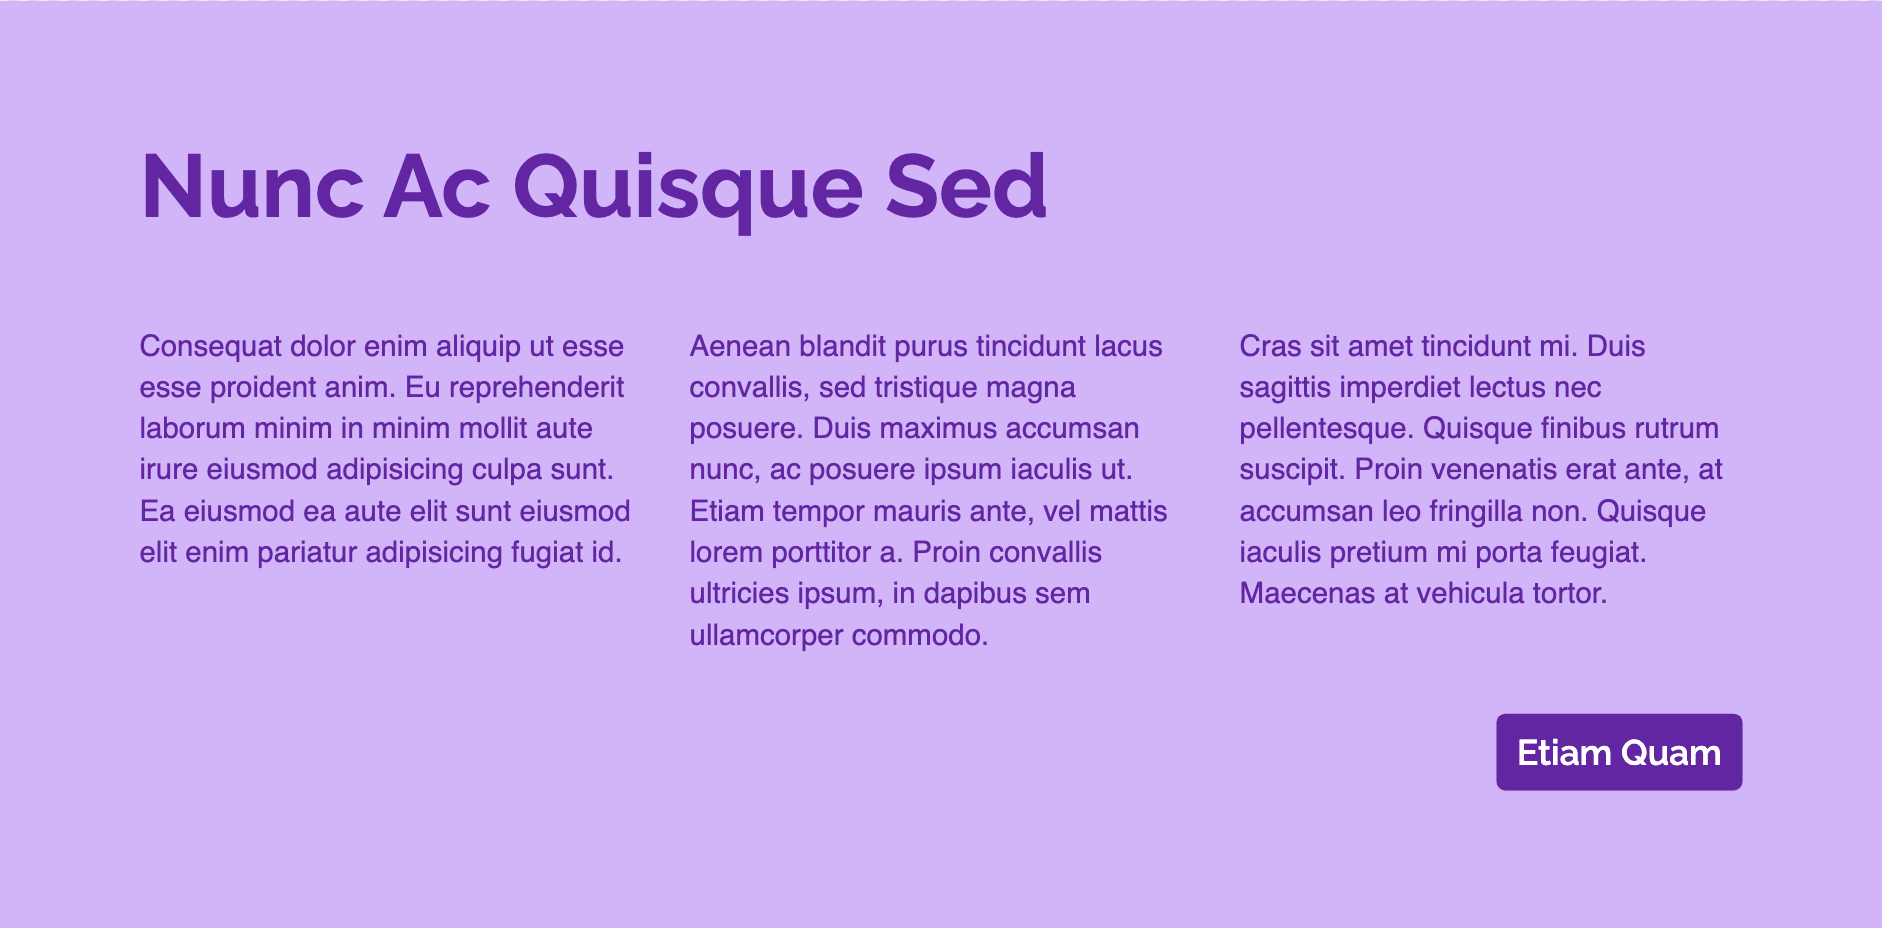
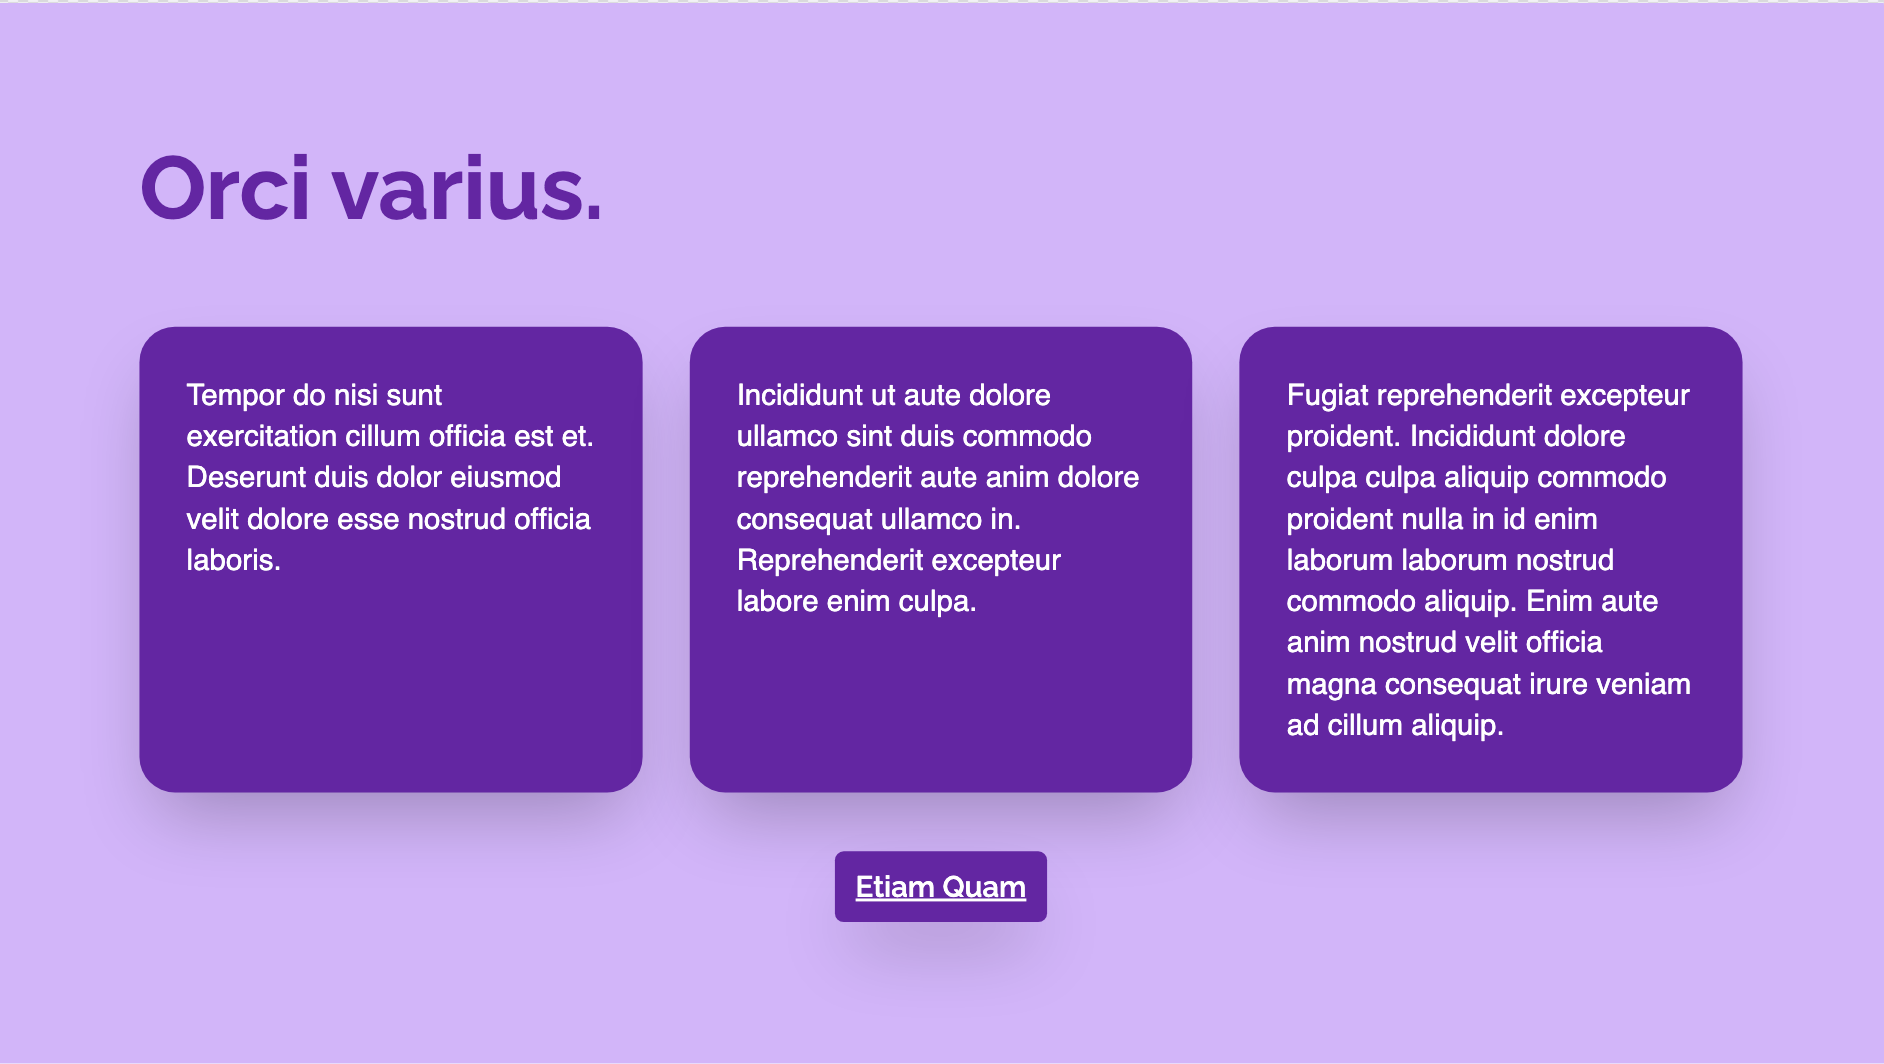
simplified text grid with text box slice, updated screenshots of text block slice variations, created global nav fields on single

diff --git a/prismicio-types.d.ts b/prismicio-types.d.ts
@@ -83,7 +83,70 @@ export type HomepageDocument<Lang extends string = string> =
     Lang
   >;
 
-interface NavigationMenuDocumentData {}
+/**
+ * Item in *Navigation Menu → Menu Items*
+ */
+export interface NavigationMenuDocumentDataMenuItemsItem {
+  /**
+   * Link field in *Navigation Menu → Menu Items*
+   *
+   * - **Field Type**: Link
+   * - **Placeholder**: Enter menu link
+   * - **API ID Path**: navigation_menu.menu_items[].link
+   * - **Documentation**: https://prismic.io/docs/field#link-content-relationship
+   */
+  link: prismic.LinkField;
+
+  /**
+   * Label field in *Navigation Menu → Menu Items*
+   *
+   * - **Field Type**: Text
+   * - **Placeholder**: Enter the label for the menu link
+   * - **API ID Path**: navigation_menu.menu_items[].label
+   * - **Documentation**: https://prismic.io/docs/field#key-text
+   */
+  label: prismic.KeyTextField;
+}
+
+/**
+ * Content for Navigation Menu documents
+ */
+interface NavigationMenuDocumentData {
+  /**
+   * Company Name field in *Navigation Menu*
+   *
+   * - **Field Type**: Text
+   * - **Placeholder**: Enter the company's name
+   * - **API ID Path**: navigation_menu.company_name
+   * - **Tab**: Main
+   * - **Documentation**: https://prismic.io/docs/field#key-text
+   */
+  company_name: prismic.KeyTextField;
+
+  /**
+   * Company Logo field in *Navigation Menu*
+   *
+   * - **Field Type**: Image
+   * - **Placeholder**: *None*
+   * - **API ID Path**: navigation_menu.company_logo
+   * - **Tab**: Main
+   * - **Documentation**: https://prismic.io/docs/field#image
+   */
+  company_logo: prismic.ImageField<never>;
+
+  /**
+   * Menu Items field in *Navigation Menu*
+   *
+   * - **Field Type**: Group
+   * - **Placeholder**: *None*
+   * - **API ID Path**: navigation_menu.menu_items[]
+   * - **Tab**: Main
+   * - **Documentation**: https://prismic.io/docs/field#group
+   */
+  menu_items: prismic.GroupField<
+    Simplify<NavigationMenuDocumentDataMenuItemsItem>
+  >;
+}
 
 /**
  * Navigation Menu document from Prismic
@@ -526,7 +589,7 @@ export type TextBlockSliceDefault = prismic.SharedSliceVariation<
 /**
  * Primary content in *TextBlock → Primary*
  */
-export interface TextBlockSliceTextGridWithHeadingPrimary {
+export interface TextBlockSliceTextGridPrimary {
   /**
    * Add Space Above field in *TextBlock → Primary*
    *
@@ -575,20 +638,20 @@ export interface TextBlockSliceTextGridWithHeadingPrimary {
   text_align: prismic.SelectField<"Center" | "Left" | "Right", "filled">;
 
   /**
-   * Heading Text field in *TextBlock → Primary*
+   * Text field in *TextBlock → Primary*
    *
    * - **Field Type**: Rich Text
-   * - **Placeholder**: Enter heading
-   * - **API ID Path**: text_block.primary.heading_text
+   * - **Placeholder**: Enter text
+   * - **API ID Path**: text_block.primary.text
    * - **Documentation**: https://prismic.io/docs/field#rich-text-title
    */
-  heading_text: prismic.RichTextField;
+  text: prismic.RichTextField;
 }
 
 /**
  * Primary content in *TextBlock → Items*
  */
-export interface TextBlockSliceTextGridWithHeadingItem {
+export interface TextBlockSliceTextGridItem {
   /**
    * Grid Item Text Align field in *TextBlock → Items*
    *
@@ -615,16 +678,16 @@ export interface TextBlockSliceTextGridWithHeadingItem {
 }
 
 /**
- * Text Grid with Heading variation for TextBlock Slice
+ * Text Grid variation for TextBlock Slice
  *
- * - **API ID**: `textGridWithHeading`
+ * - **API ID**: `textGrid`
  * - **Description**: Default
  * - **Documentation**: https://prismic.io/docs/slice
  */
-export type TextBlockSliceTextGridWithHeading = prismic.SharedSliceVariation<
-  "textGridWithHeading",
-  Simplify<TextBlockSliceTextGridWithHeadingPrimary>,
-  Simplify<TextBlockSliceTextGridWithHeadingItem>
+export type TextBlockSliceTextGrid = prismic.SharedSliceVariation<
+  "textGrid",
+  Simplify<TextBlockSliceTextGridPrimary>,
+  Simplify<TextBlockSliceTextGridItem>
 >;
 
 /**
@@ -895,7 +958,7 @@ export type TextBlockSliceTextBlockWithButton = prismic.SharedSliceVariation<
  */
 type TextBlockSliceVariation =
   | TextBlockSliceDefault
-  | TextBlockSliceTextGridWithHeading
+  | TextBlockSliceTextGrid
   | TextBlockSliceTextGridWithButton
   | TextBlockSliceTextBlockWithButton;
 
@@ -926,6 +989,7 @@ declare module "@prismicio/client" {
       HomepageDocumentDataSlicesSlice,
       NavigationMenuDocument,
       NavigationMenuDocumentData,
+      NavigationMenuDocumentDataMenuItemsItem,
       AllDocumentTypes,
       HeroSlice,
       HeroSliceDefaultPrimary,
@@ -942,14 +1006,14 @@ declare module "@prismicio/client" {
       ImageLeftTextRightSliceTextWithMultipleImages,
       TextBlockSlice,
       TextBlockSliceDefaultPrimary,
-      TextBlockSliceTextGridWithHeadingPrimary,
-      TextBlockSliceTextGridWithHeadingItem,
+      TextBlockSliceTextGridPrimary,
+      TextBlockSliceTextGridItem,
       TextBlockSliceTextGridWithButtonPrimary,
       TextBlockSliceTextGridWithButtonItem,
       TextBlockSliceTextBlockWithButtonPrimary,
       TextBlockSliceVariation,
       TextBlockSliceDefault,
-      TextBlockSliceTextGridWithHeading,
+      TextBlockSliceTextGrid,
       TextBlockSliceTextGridWithButton,
       TextBlockSliceTextBlockWithButton,
     };

diff --git a/slices/TextBlock/index.js b/slices/TextBlock/index.js
@@ -72,12 +72,12 @@ const TextBlock = ({ slice }) => {
               )}
             </div>
           )}
-          {['textGridWithHeading', 'textGridWithButton'].includes(
+          {['textGrid', 'textGridWithButton'].includes(
             slice.variation
           ) && (
             <div>
               <PrismicRichText
-                field={slice.primary.heading_text}
+                field={slice.primary.text}
               />
               <div className='mx-auto mt-10 grid max-w-2xl grid-cols-1 gap-x-8 gap-y-16 sm:mt-16 lg:mx-0 lg:max-w-none lg:grid-cols-3'>
                 {slice.items.map((item) => (
